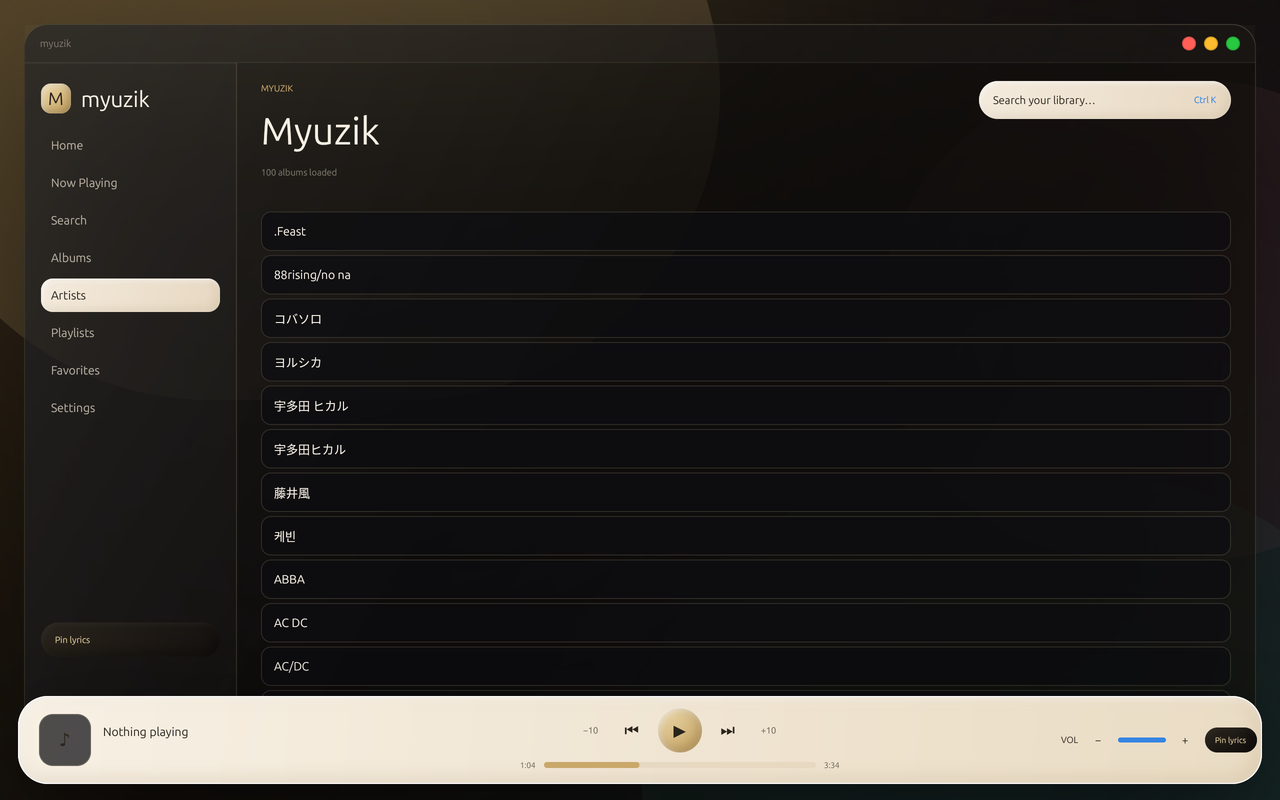
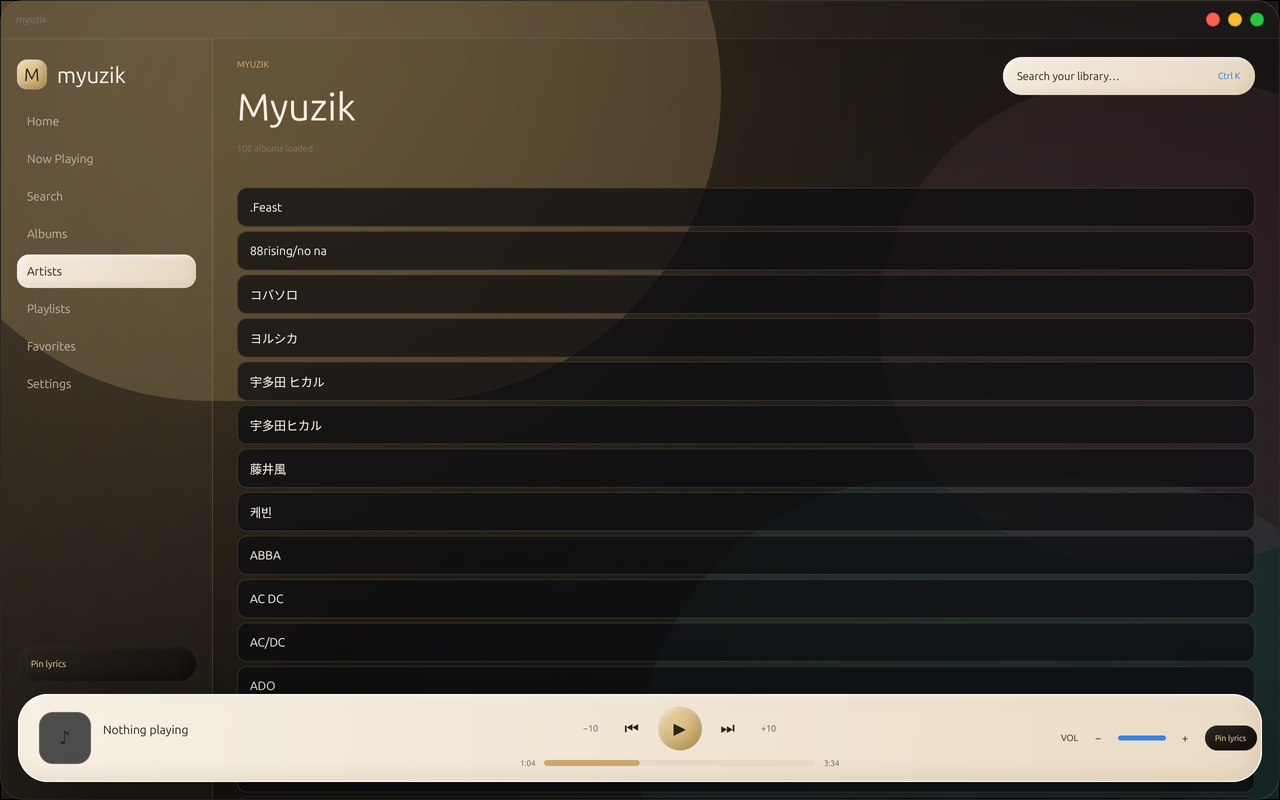
polish: remove square outer frame, fill window with rounded shell, keep player pill inside; refresh screenshots

diff --git a/src/ui/shell.rs b/src/ui/shell.rs
@@ -1277,7 +1277,7 @@ impl Render for Shell {
             .absolute()
             .left(gpui::px(18.0))
             .right(gpui::px(18.0))
-            .bottom(gpui::px(16.0))
+            .bottom(gpui::px(18.0))
             .h(gpui::px(88.0))
             .rounded(gpui::px(30.0))
             .bg(gpui::linear_gradient(
@@ -1669,7 +1669,6 @@ impl Render for Shell {
         // Glass shell with home content
         div()
             .size_full()
-            .bg(t.bg_base)
             .text_color(t.text_primary)
             .id("app-root")
             .debug_selector(|| "app-root".to_string())
@@ -1739,67 +1738,6 @@ impl Render for Shell {
                 div()
                     .absolute()
                     .inset_0()
-                    .bg(gpui::linear_gradient(
-                        135.0,
-                        gpui::linear_color_stop(t.bg_gradient_start, 0.0),
-                        gpui::linear_color_stop(t.bg_gradient_end, 1.0),
-                    )),
-            )
-            .child(
-                div()
-                    .absolute()
-                    .top(gpui::px(-220.0))
-                    .left(gpui::px(-100.0))
-                    .w(gpui::px(820.0))
-                    .h(gpui::px(620.0))
-                    .rounded(gpui::px(999.0))
-                    .bg(t.gold_glow)
-                    .shadow(vec![gpui::BoxShadow {
-                        color: t.gold_glow_border.into(),
-                        offset: gpui::point(gpui::px(0.0), gpui::px(0.0)),
-                        blur_radius: gpui::px(260.0),
-                        spread_radius: gpui::px(0.0),
-                        inset: false,
-                    }]),
-            )
-            .child(
-                div()
-                    .absolute()
-                    .bottom(gpui::px(-240.0))
-                    .right(gpui::px(-120.0))
-                    .w(gpui::px(760.0))
-                    .h(gpui::px(560.0))
-                    .rounded(gpui::px(999.0))
-                    .bg(t.ambient_teal)
-                    .shadow(vec![gpui::BoxShadow {
-                        color: gpui::rgba(0x2F6B6348).into(),
-                        offset: gpui::point(gpui::px(0.0), gpui::px(0.0)),
-                        blur_radius: gpui::px(240.0),
-                        spread_radius: gpui::px(0.0),
-                        inset: false,
-                    }]),
-            )
-            .child(
-                div()
-                    .absolute()
-                    .top(gpui::px(80.0))
-                    .right(gpui::px(-160.0))
-                    .w(gpui::px(560.0))
-                    .h(gpui::px(480.0))
-                    .rounded(gpui::px(999.0))
-                    .bg(t.ambient_rose)
-                    .shadow(vec![gpui::BoxShadow {
-                        color: gpui::rgba(0x7A4A5540).into(),
-                        offset: gpui::point(gpui::px(0.0), gpui::px(0.0)),
-                        blur_radius: gpui::px(220.0),
-                        spread_radius: gpui::px(0.0),
-                        inset: false,
-                    }]),
-            )
-            .child(
-                div()
-                    .absolute()
-                    .inset(gpui::px(24.0))
                     .rounded(gpui::px(24.0))
                     .bg(gpui::linear_gradient(
                         135.0,
@@ -1826,7 +1764,68 @@ impl Render for Shell {
                     ])
                     .flex()
                     .flex_col()
-                    .overflow_hidden()
+                    .overflow_hidden()                    .child(
+                        div()
+                            .absolute()
+                            .inset_0()
+                            .bg(gpui::linear_gradient(
+                                135.0,
+                                gpui::linear_color_stop(t.bg_gradient_start, 0.0),
+                                gpui::linear_color_stop(t.bg_gradient_end, 1.0),
+                            )),
+                    )
+                    .child(
+                        div()
+                            .absolute()
+                            .top(gpui::px(-220.0))
+                            .left(gpui::px(-100.0))
+                            .w(gpui::px(820.0))
+                            .h(gpui::px(620.0))
+                            .rounded(gpui::px(999.0))
+                            .bg(t.gold_glow)
+                            .shadow(vec![gpui::BoxShadow {
+                                color: t.gold_glow_border.into(),
+                                offset: gpui::point(gpui::px(0.0), gpui::px(0.0)),
+                                blur_radius: gpui::px(260.0),
+                                spread_radius: gpui::px(0.0),
+                                inset: false,
+                            }]),
+                    )
+                    .child(
+                        div()
+                            .absolute()
+                            .bottom(gpui::px(-240.0))
+                            .right(gpui::px(-120.0))
+                            .w(gpui::px(760.0))
+                            .h(gpui::px(560.0))
+                            .rounded(gpui::px(999.0))
+                            .bg(t.ambient_teal)
+                            .shadow(vec![gpui::BoxShadow {
+                                color: gpui::rgba(0x2F6B6348).into(),
+                                offset: gpui::point(gpui::px(0.0), gpui::px(0.0)),
+                                blur_radius: gpui::px(240.0),
+                                spread_radius: gpui::px(0.0),
+                                inset: false,
+                            }]),
+                    )
+                    .child(
+                        div()
+                            .absolute()
+                            .top(gpui::px(80.0))
+                            .right(gpui::px(-160.0))
+                            .w(gpui::px(560.0))
+                            .h(gpui::px(480.0))
+                            .rounded(gpui::px(999.0))
+                            .bg(t.ambient_rose)
+                            .shadow(vec![gpui::BoxShadow {
+                                color: gpui::rgba(0x7A4A5540).into(),
+                                offset: gpui::point(gpui::px(0.0), gpui::px(0.0)),
+                                blur_radius: gpui::px(220.0),
+                                spread_radius: gpui::px(0.0),
+                                inset: false,
+                            }]),
+                    )
+
                     .child(
                         // Glass sheen
                         div()

diff --git a/docs/design-audit.md b/docs/design-audit.md
@@ -18,8 +18,10 @@ window traffic-light semantics (red/yellow/green) and transparent shadows.
 
 ## Glass / clay hierarchy
 
-- **Glass**: shell panel (gradient + champagne border + inset top highlight + sheen),
-  sidebar (thin translucent layer), lyrics panel, settings rows, search field, album covers frame.
+- **Glass**: the shell fills the window with 24 px rounded corners (gradient + champagne border +
+  inset top highlight + sheen), sidebar (thin translucent layer), lyrics panel, settings rows,
+  search field, album covers frame. The outer window margin was removed so there is no square
+  frame around the rounded shell; the player bar floats inside the shell with 18 px margins.
 - **Clay**: player bar (ivory gradient + inset highlight/shade), active nav pill, logo mark,
   gold play/play-all buttons, dark "Pin lyrics" pills, search pill.
 - **Not mixed**: clay is used for controls/player; glass for surfaces. Gold is state, not decoration.
@@ -41,6 +43,8 @@ window traffic-light semantics (red/yellow/green) and transparent shadows.
 
 - **No compositor blur**: Mutter does not implement `ext-background-effect-v1`. Glass is simulated
   with a translucent gradient + ambient color + inset highlights.
+- **Full-window shell**: the mockup floats the shell 24 px inside the window; the app fills the
+  window with the rounded shell and keeps the player bar inside it, avoiding a square frame.
 - **Window controls**: macOS-style colored dots on the right (explicit user request), replacing the
   mockup's `— □ ×` actions.
 - **Nav icons**: text labels only (no icon set bundled yet).
